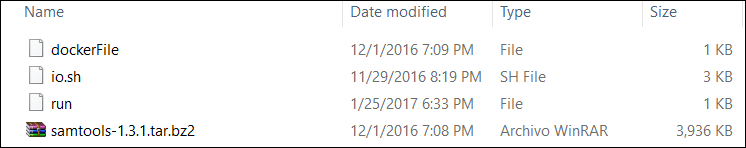
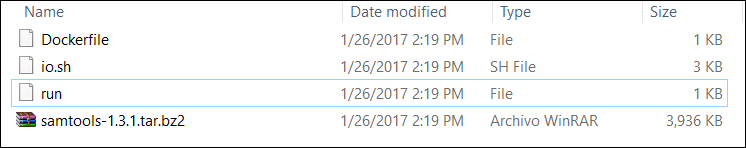
updated a small issue with docker build

diff --git a/Tutorials/stanford5Dec2016/index.html b/Tutorials/stanford5Dec2016/index.html
@@ -451,9 +451,10 @@ ENV PATH /samtools:$PATH</pre>
 		<p>
 		<strong>Action</strong>:  Build the image you have created and check that docker adds it to the local repository. This may take a little time:
 		<pre>
-docker build -t youruser/nameOfImage -f pathToDockerFile.</pre>
-		youruser/nameOfImage is just a way to tag the images you create. In my case I named it dgarijo/test:v1. Later, when running the image as a container, we will use this name. The -f option points to the docker file you want to build as an image. This flag is optional: if you don't include it, it will search on your local folder.
-		When Docker finishes, you should see a list of your images, similar to:
+docker build -t youruser/nameOfImage -f pathToDockerFile .</pre>
+		youruser/nameOfImage is just a way to tag the images you create. In my case I named it dgarijo/test:v1. Later, when running the image as a container, we will use this name. The -f option points to the docker file you want to build as an image. This flag is optional: if you don't include it, it will search on your local folder. Also, in some cases there are <a href="https://github.com/docker/docker/issues/14339">known issues</a>. If you run into any trouble, just use:
+		<pre>docker build -t dgarijo/test:v1 DIRECTORY .</pre>
+		Where the "DIRECTORY" contains a docker file called "Dockerfile". When Docker finishes, you should see a list of your images, similar to:
 		 
 		 </p>
 		  <div class="center">				
